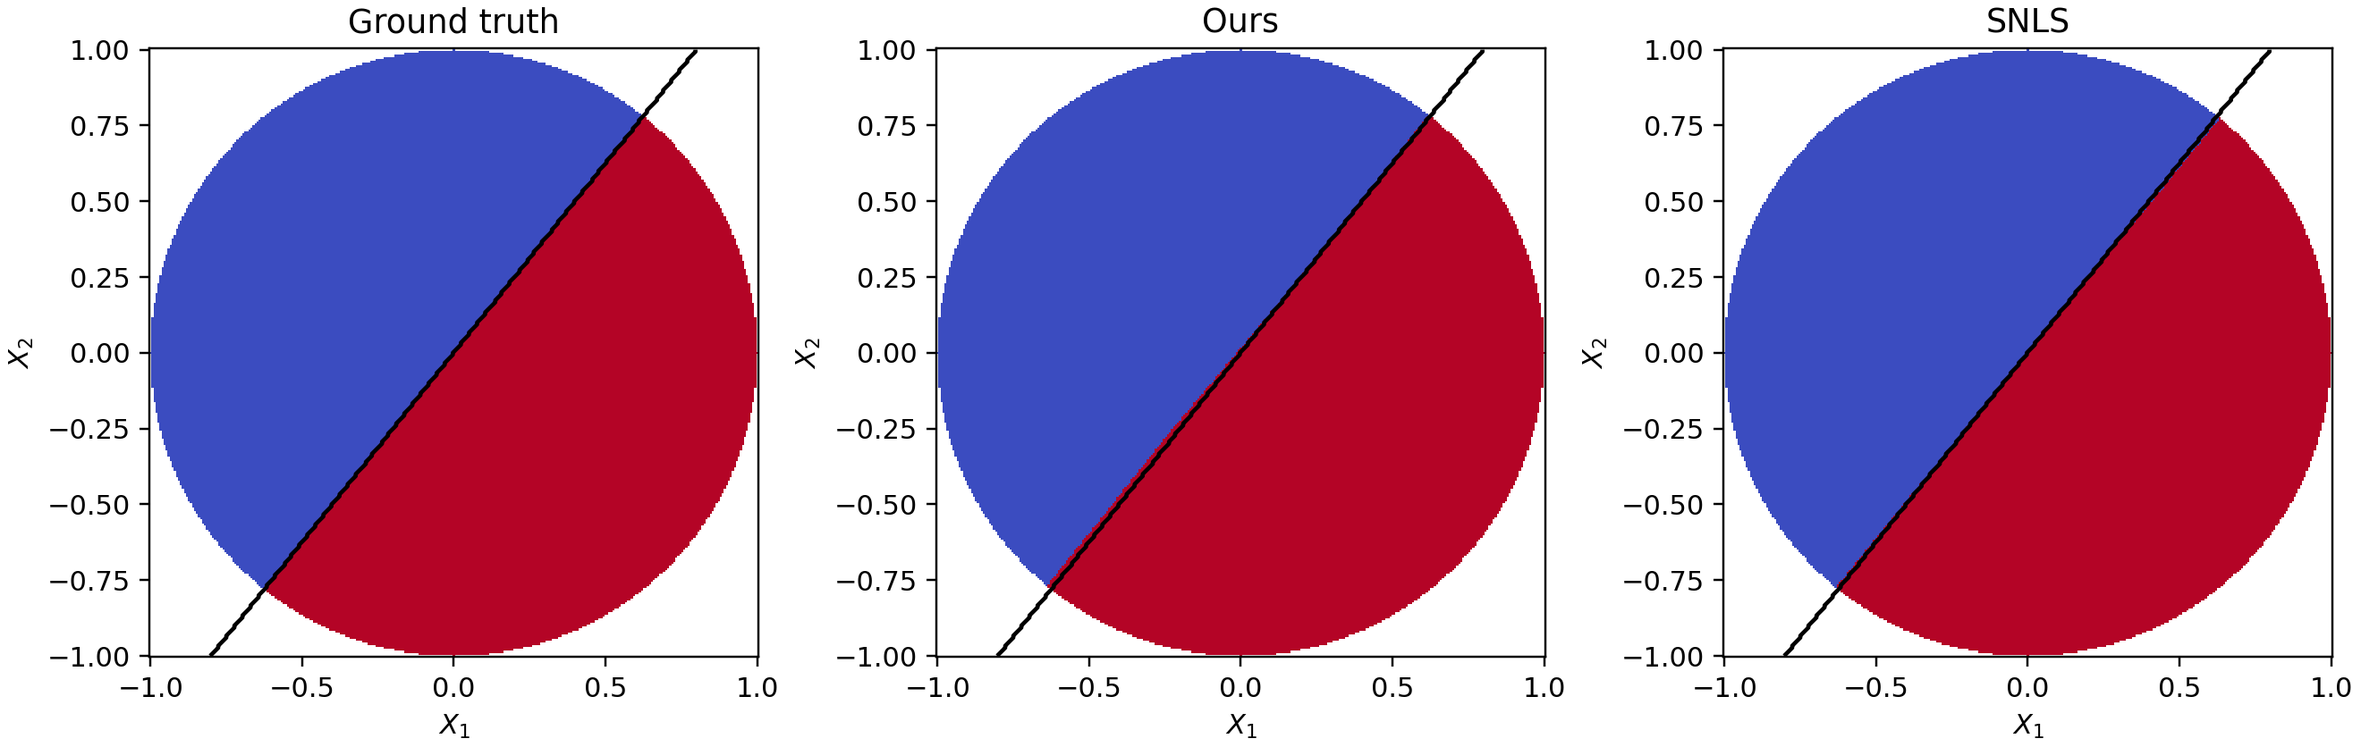
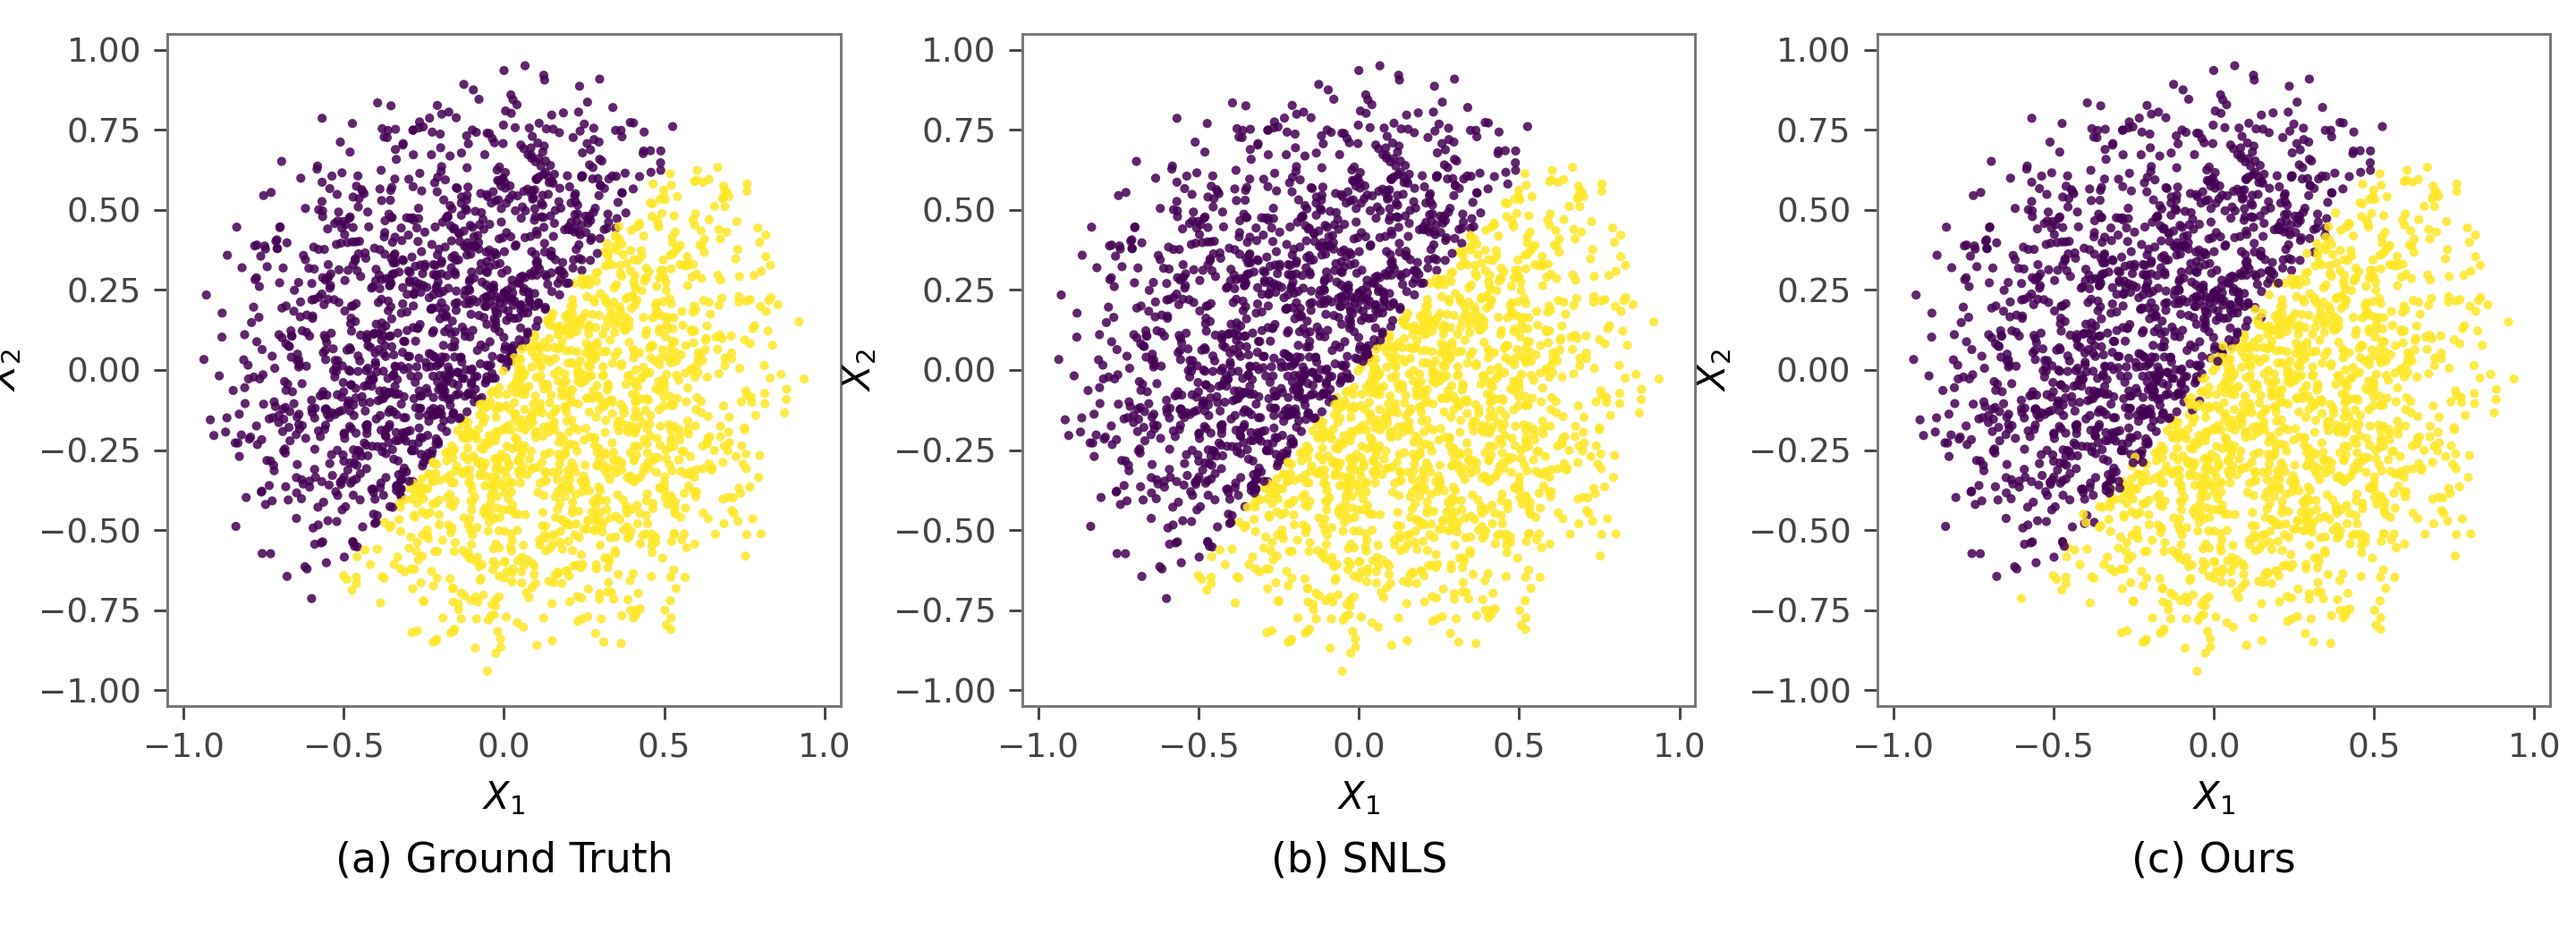
Redraw decision boundary figure variants

diff --git a/simulation/shift_dgp_search/action_specific_unified/make_figures.py b/simulation/shift_dgp_search/action_specific_unified/make_figures.py
@@ -1,4 +1,4 @@
-"""Plot true and learned linear and S-shaped decision boundaries."""
+"""Plot true and learned decisions using the generated test observations."""
 
 import argparse
 import sys
@@ -6,8 +6,10 @@ from pathlib import Path
 
 import joblib
 import matplotlib
+
 matplotlib.use("Agg")
 import matplotlib.pyplot as plt
+from matplotlib.colors import ListedColormap
 import numpy as np
 import torch
 
@@ -20,49 +22,121 @@ import optimization_problem_with_holdout as optimization
 from dgp import decision_score
 
 
+ACTION_COLORS = ("#440154", "#FDE725")
+ACTION_CMAP = ListedColormap(ACTION_COLORS)
+PANEL_NAMES = ("Ground Truth", "SNLS", "Ours")
+
+
 def model_path(root, boundary, model, depth):
     folder = f"{boundary}_ours_robust" if model == "Ours" else f"{boundary}_snls"
-    patterns = (
-        f"*exp_id_0_{depth}.pth" if model == "Ours"
-        else f"*SNLN-exp_id_0_{depth}.pth"
-    )
-    return next((root / "models" / "rep-0" / folder).glob(patterns))
+    pattern = f"*exp_id_0_{depth}.pth" if model == "Ours" else f"*SNLN-exp_id_0_{depth}.pth"
+    return next((root / "models" / "rep-0" / folder).glob(pattern))
 
 
 def load_model(root, boundary, model, depth, device):
-    if model == "Ours":
-        policy = optimization.NN_Sieves({}, 5, device, depth, 2)
-    else:
-        policy = optimization.NN_baseline({}, 5, device, depth, 2)
-    policy.load_state_dict(torch.load(model_path(root, boundary, model, depth), map_location=device))
+    policy_class = optimization.NN_Sieves if model == "Ours" else optimization.NN_baseline
+    policy = policy_class({}, 5, device, depth, 2)
+    policy.load_state_dict(
+        torch.load(model_path(root, boundary, model, depth), map_location=device)
+    )
     policy.eval()
     return policy
 
 
-def plot_boundary(root, boundary, selected_depth, device):
+def predict(policy, x, device):
+    with torch.no_grad():
+        tensor = torch.as_tensor(x, dtype=torch.float32, device=device)
+        return policy(tensor).argmax(1).cpu().numpy()
+
+
+def make_grid(boundary, policies, device):
     axis = np.linspace(-1.0, 1.0, 301)
     x1, x2 = np.meshgrid(axis, axis)
-    inside = x1**2 + x2**2 <= 1.0
-    x = np.column_stack([x1.ravel(), x2.ravel(), np.zeros((x1.size, 3))])
-    truth = (decision_score(x, boundary) >= 0).reshape(x1.shape)
+    x = np.column_stack((x1.ravel(), x2.ravel(), np.zeros((x1.size, 3))))
+    score = decision_score(x, boundary).reshape(x1.shape)
+    decisions = [(score >= 0).astype(int)]
+    decisions.extend(predict(policy, x, device).reshape(x1.shape) for policy in policies)
+    return x1, x2, score, decisions
 
-    panels = [("Ground truth", truth)]
-    for name, depth in (("Ours", selected_depth), ("SNLS", 2)):
-        policy = load_model(root, boundary, name, depth, device)
-        with torch.no_grad():
-            decision = policy(torch.tensor(x, dtype=torch.float32, device=device)).argmax(1)
-        panels.append((name, decision.cpu().numpy().reshape(x1.shape)))
 
-    fig, axes = plt.subplots(1, 3, figsize=(12, 3.8), constrained_layout=True)
-    for ax, (title, decision) in zip(axes, panels):
-        shown = np.where(inside, decision, np.nan)
-        ax.pcolormesh(x1, x2, shown, cmap="coolwarm", shading="auto", vmin=0, vmax=1)
-        ax.contour(x1, x2, truth, levels=[0.5], colors="black", linewidths=1.5)
-        ax.set(title=title, xlabel=r"$X_1$", ylabel=r"$X_2$", aspect="equal")
-    path = root / f"figure_{boundary}.png"
-    fig.savefig(path, dpi=220)
+def scatter_decisions(ax, x, decisions):
+    ax.scatter(
+        x[:, 0],
+        x[:, 1],
+        c=decisions,
+        cmap=ACTION_CMAP,
+        vmin=0,
+        vmax=1,
+        s=6,
+        alpha=0.85,
+        edgecolors="none",
+        rasterized=True,
+    )
+
+
+def format_panel(ax, index, name):
+    ax.set_xlim(-1.05, 1.05)
+    ax.set_ylim(-1.05, 1.05)
+    ax.set_aspect("equal")
+    ax.set_xlabel(r"$X_1$")
+    ax.set_ylabel(r"$X_2$")
+    ax.text(
+        0.5,
+        -0.20,
+        f"({chr(97 + index)}) {name}",
+        transform=ax.transAxes,
+        ha="center",
+        va="top",
+        fontsize=11,
+    )
+    for spine in ax.spines.values():
+        spine.set_color("#777777")
+        spine.set_linewidth(0.7)
+    ax.tick_params(colors="#444444", width=0.7, labelsize=9)
+
+
+def draw_figure(root, boundary, x, point_decisions, grid, variant):
+    x1, x2, true_score, grid_decisions = grid
+    fig, axes = plt.subplots(1, 3, figsize=(9.6, 3.45))
+
+    for index, (ax, name, decisions) in enumerate(zip(axes, PANEL_NAMES, point_decisions)):
+        if variant == "regions":
+            inside = x1**2 + x2**2 <= 1.0
+            region = np.ma.masked_where(~inside, grid_decisions[index])
+            ax.contourf(
+                x1,
+                x2,
+                region,
+                levels=(-0.5, 0.5, 1.5),
+                cmap=ACTION_CMAP,
+                alpha=0.14,
+                antialiased=True,
+            )
+        scatter_decisions(ax, x, decisions)
+        if variant == "boundary":
+            ax.contour(x1, x2, true_score, levels=(0,), colors="black", linewidths=1.1)
+        format_panel(ax, index, name)
+
+    fig.subplots_adjust(left=0.065, right=0.99, top=0.97, bottom=0.23, wspace=0.27)
+    suffix = "" if variant == "paper" else f"_{variant}"
+    path = root / f"figure_{boundary}{suffix}.png"
+    fig.savefig(path, dpi=300, facecolor="white")
     plt.close(fig)
     print(f"Saved {path}")
+
+
+def plot_boundary(root, boundary, selected_depth, device, data):
+    x = data[boundary]["test"]["X"]
+    policies = (
+        load_model(root, boundary, "SNLS", 2, device),
+        load_model(root, boundary, "Ours", selected_depth, device),
+    )
+    point_decisions = [(decision_score(x, boundary) >= 0).astype(int)]
+    point_decisions.extend(predict(policy, x, device) for policy in policies)
+    grid = make_grid(boundary, policies, device)
+
+    for variant in ("paper", "boundary", "regions"):
+        draw_figure(root, boundary, x, point_decisions, grid, variant)
 
 
 def main():
@@ -71,13 +145,14 @@ def main():
     parser.add_argument("--device", default="cuda:0" if torch.cuda.is_available() else "cpu")
     args = parser.parse_args()
     root = args.sandbox_dir.resolve()
+    data = joblib.load(root / "data" / "rep-0.pkl")
     result = joblib.load(root / "results" / "rep-0.pkl")
     depths = {
         "linear": result["linear_selected_depth"],
         "nonlinear": result["selected_depth"],
     }
     for boundary in ("linear", "nonlinear"):
-        plot_boundary(root, boundary, depths[boundary], torch.device(args.device))
+        plot_boundary(root, boundary, depths[boundary], torch.device(args.device), data)
 
 
 if __name__ == "__main__":

diff --git a/simulation/shift_dgp_search/action_specific_unified/REPORT.md b/simulation/shift_dgp_search/action_specific_unified/REPORT.md
@@ -64,8 +64,16 @@ depth frequencies were K=1: 42, K=2: 35, K=3: 16, K=4: 5, and K=5: 2.
 
 ## Decision boundaries
 
-- `figure_linear.png`: Ours and SNLS both recover the linear boundary.
-- `figure_nonlinear.png`: Ours recovers the S-shaped boundary; SNLS remains linear.
+- `figure_linear.png`, `figure_nonlinear.png`: paper-style observed decision points.
+- `figure_linear_boundary.png`, `figure_nonlinear_boundary.png`: the same points
+  with the true boundary overlaid.
+- `figure_linear_regions.png`, `figure_nonlinear_regions.png`: the same points
+  over faint model-specific decision regions.
+
+All panels use the same 2,500 replication-0 test observations and the paper's
+purple/yellow action colors. Ours and SNLS both recover the linear boundary;
+under the S-shaped boundary, Ours follows the nonlinear structure while SNLS
+remains approximately linear.
 
 ## Reproducibility checks
 

diff --git a/simulation/shift_dgp_search/action_specific_unified/README.md b/simulation/shift_dgp_search/action_specific_unified/README.md
@@ -26,3 +26,7 @@ conda run -n yijun_env python simulation\shift_dgp_search\action_specific_unifie
 The pilot search was frozen before the 100-replication run. `search_log.csv`
 records the rejected symmetric action-specific specifications and the reason for
 selecting the modular outcome specification.
+
+The figure script uses the 2,500 generated test observations from replication 0.
+It saves paper-style scatterplots (`figure_linear.png`, `figure_nonlinear.png`)
+and two optional versions with `_boundary` and `_regions` suffixes.
